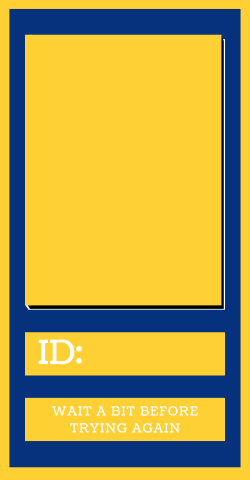
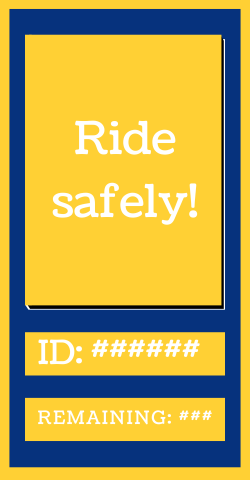
add logic for non-recurring transactions

diff --git a/main.py b/main.py
@@ -1,5 +1,6 @@
 import os
 import pickle
+from datetime import datetime
 import cv2
 import cvzone
 import face_recognition
@@ -40,6 +41,8 @@ print("Encode file loaded")
 modeType = 0
 counter = 0
 id = -1
+subway_fee = 1.5
+wait_seconds = 30
 
 while True:
     success, img = cap.read()
@@ -53,44 +56,81 @@ while True:
     imgBackground[143:143+480,40:40+640] = img
     imgBackground[143:143+480,723:723+250] = imgModeList[modeType]
 
-    for encodeFace, faceLoc in zip(encodeCurrFrame, faceCurrFrame):
-        matches = face_recognition.compare_faces(encodeListKnown, encodeFace)
-        faceDis = face_recognition.face_distance(encodeListKnown, encodeFace)
+    if faceCurrFrame:
+        for encodeFace, faceLoc in zip(encodeCurrFrame, faceCurrFrame):
+            matches = face_recognition.compare_faces(encodeListKnown, encodeFace)
+            faceDis = face_recognition.face_distance(encodeListKnown, encodeFace)
 
-        matchIdx = np.argmin(faceDis)
-        if matches[matchIdx]:
-            y1, x2, y2, x1 = faceLoc
-            y1, x2, y2, x1 = y1 * 4, x2 * 4, y2 * 4, x1 * 4
-            bbox = 40 + x1, 143 + y1, x2 - x1, y2 - y1
-            imgBackground = cvzone.cornerRect(imgBackground, bbox, rt=0)
-            id = ids[matchIdx]
-            if counter == 0:
-                counter = 1
-                modeType = 1
+            matchIdx = np.argmin(faceDis)
+            if matches[matchIdx]:
+                y1, x2, y2, x1 = faceLoc
+                y1, x2, y2, x1 = y1 * 4, x2 * 4, y2 * 4, x1 * 4
+                bbox = 40 + x1, 143 + y1, x2 - x1, y2 - y1
+                imgBackground = cvzone.cornerRect(imgBackground, bbox, rt=0)
+                id = ids[matchIdx]
+                if counter == 0:
+                    cvzone.putTextRect(imgBackground, "loading", (275,400))
+                    cv2.imshow("Face Recognition Subway", imgBackground)
+                    cv2.waitKey(1)
+                    counter = 1
+                    modeType = 1
 
-    if counter != 0:
+        if counter != 0:
 
-        if counter == 1:
-            # get data
-            info = db.reference(f'Customers/{id}').get()
-            print(info)
-            # get image from storage
-            blob = bucket.get_blob(f'Images/{id}.png')
-            array = np.frombuffer(blob.download_as_string(), np.uint8)
-            imgStudent = cv2.imdecode(array, cv2.COLOR_BGRA2BGR)
+            if counter == 1:
+                # get data
+                info = db.reference(f'Customers/{id}').get()
 
-        cv2.putText(imgBackground, str(info['funds']), (895 ,567),
-                    cv2.FONT_HERSHEY_COMPLEX, 0.8, (255,255,255), 1)
-        cv2.putText(imgBackground, str(id), (815,505),
-                    cv2.FONT_HERSHEY_COMPLEX, 0.8, (255,255,255), 1)
-        (w, h), _ = cv2.getTextSize(info['name'], cv2.FONT_HERSHEY_COMPLEX, 0.8, 1)
-        offset = (200-w)//2
-        cv2.putText(imgBackground, str(info['name']), (750+offset, 407),
-                    cv2.FONT_HERSHEY_COMPLEX, 0.8, (255, 255, 255), 1)
-        imgBackground[190:190+170,760:760+170] = imgStudent
+                # get image from storage
+                blob = bucket.get_blob(f'Images/{id}.png')
+                array = np.frombuffer(blob.download_as_string(), np.uint8)
+                imgCustomer = cv2.imdecode(array, cv2.COLOR_BGRA2BGR)
 
-        counter += 1
+                # update data of funds
+                datetimeObject = datetime.strptime(info['last-paid-time'],
+                                                  "%Y-%m-%d %H:%M:%S")
+                secondsElapsed = (datetime.now() - datetimeObject).total_seconds()
 
+                if secondsElapsed > wait_seconds:
+                    ref = db.reference(f'Customers/{id}')
+                    info['funds'] -= subway_fee
+                    info['times-paid'] += 1
+                    ref.child('funds').set(info['funds'])
+                    ref.child('times-paid').set(info['times-paid'])
+                    ref.child('last-paid-time').set(datetime.now().strftime("%Y-%m-%d %H:%M:%S"))
+                else:
+                    modeType = 3
+                    counter = 0
+                    imgBackground[143:143 + 480, 723:723 + 250] = imgModeList[modeType]
+
+            if modeType != 3:
+
+                if 10 < counter < 20:
+                    modeType = 2
+
+                imgBackground[143:143 + 480, 723:723 + 250] = imgModeList[modeType]
+
+                if counter <= 10:
+                    cv2.putText(imgBackground, str(info['funds']), (900, 565),
+                                cv2.FONT_HERSHEY_COMPLEX, 0.5, (255,255,255), 1)
+                    cv2.putText(imgBackground, str(id), (815,505),
+                                cv2.FONT_HERSHEY_COMPLEX, 0.8, (255,255,255), 1)
+                    (w, h), _ = cv2.getTextSize(info['name'], cv2.FONT_HERSHEY_COMPLEX, 0.7, 1)
+                    offset = (200-w)//2
+                    cv2.putText(imgBackground, str(info['name']), (750+offset, 407),
+                                cv2.FONT_HERSHEY_COMPLEX, 0.7, (255, 255, 255), 1)
+                    imgBackground[190:190+170,760:760+170] = imgCustomer
+
+                counter += 1
+
+                if counter >= 20:
+                    counter = 0
+                    modeType = 0
+                    info = []
+                    imgCustomer = []
+                    imgBackground[143:143 + 480, 723:723 + 250] = imgModeList[modeType]
+    else:
+        modeType = 0
+        counter = 0
     cv2.imshow("Face Recognition Subway", imgBackground)
     cv2.waitKey(1)
-

diff --git a/AddDataToDatabase.py b/AddDataToDatabase.py
@@ -15,7 +15,7 @@ data = {
             "name": "Minh Anh",
             "dob": "2004-05-04",
             "sex": "Female",
-            "last-paid": "2024-10-06 04:45:35",
+            "last-paid-time": "2024-10-06 04:45:35",
             "funds": 15,
             "times-paid": 10
         },
@@ -24,7 +24,7 @@ data = {
             "name": "Bob Iuliano",
             "dob": "1832-01-01",
             "sex": "Male",
-            "last-paid": "2024-10-05 12:34:41",
+            "last-paid-time": "2024-10-05 12:34:41",
             "funds": 3.5,
             "times-paid": 1
         },
@@ -33,7 +33,7 @@ data = {
             "name": "Kiet Tran",
             "dob": "2004-09-13",
             "sex": "Male",
-            "last-paid": "2024-10-04 19:41:35",
+            "last-paid-time": "2024-10-04 19:41:35",
             "funds": 17,
             "times-paid": 2
         }
